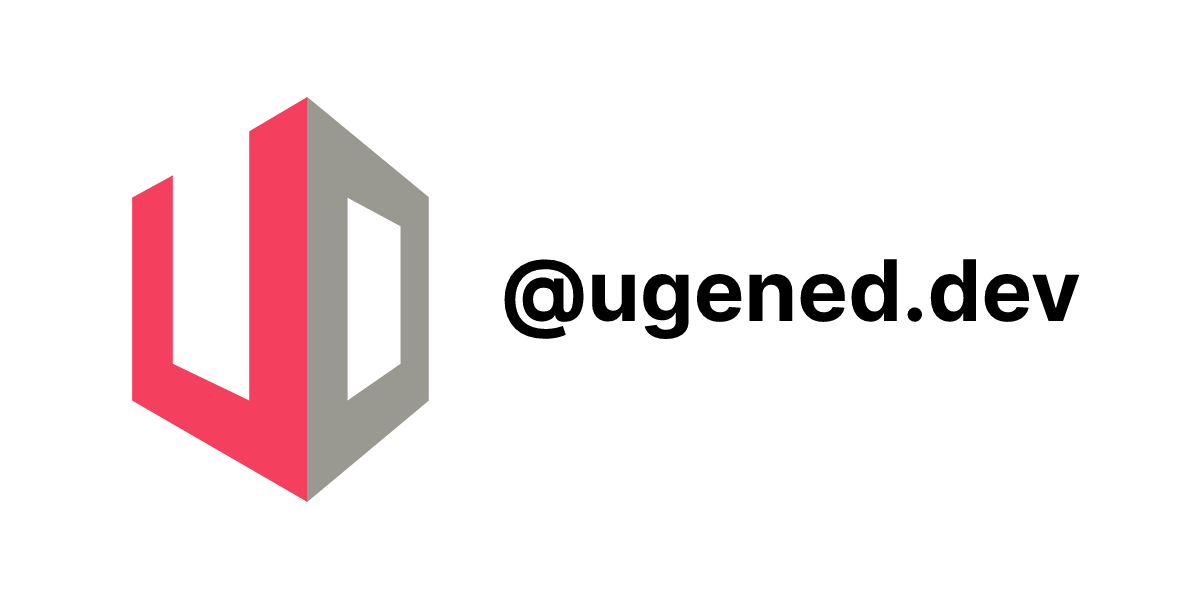
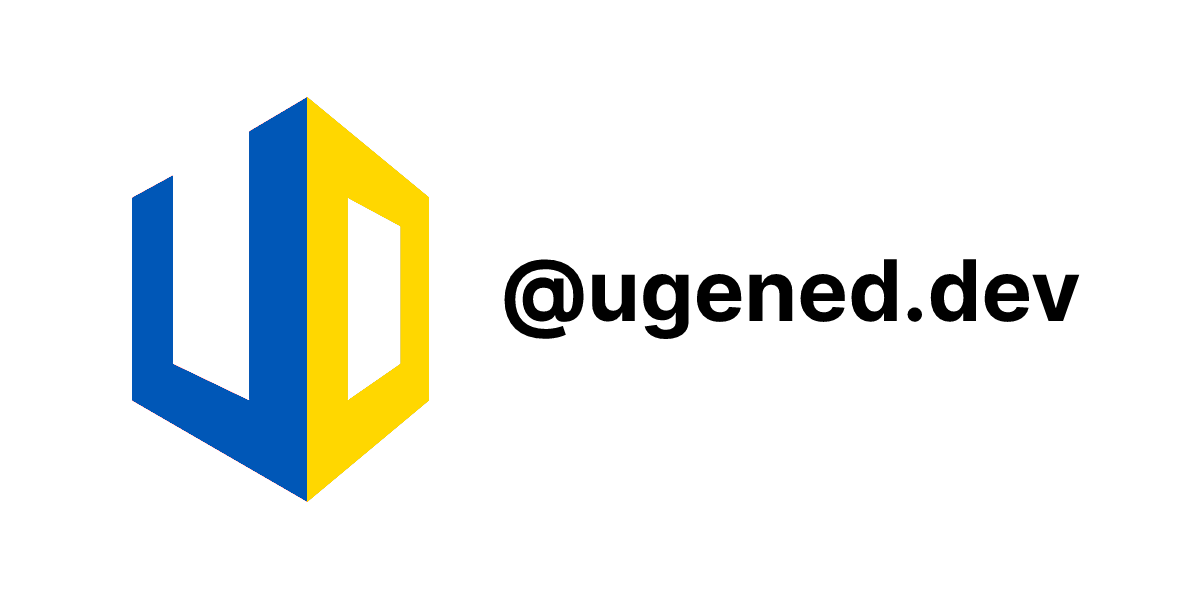
feat: change site colors

Changed region(s): [[0.0925, 0.15, 0.37, 0.84]]

diff --git a/tailwind.config.js b/tailwind.config.js
@@ -19,7 +19,7 @@ module.exports = {
         sans: ['Inter', ...defaultTheme.fontFamily.sans],
       },
       colors: {
-        primary: colors.rose,
+        primary: colors.yellow,
         gray: colors.neutral,
       },
       typography: (theme) => ({
